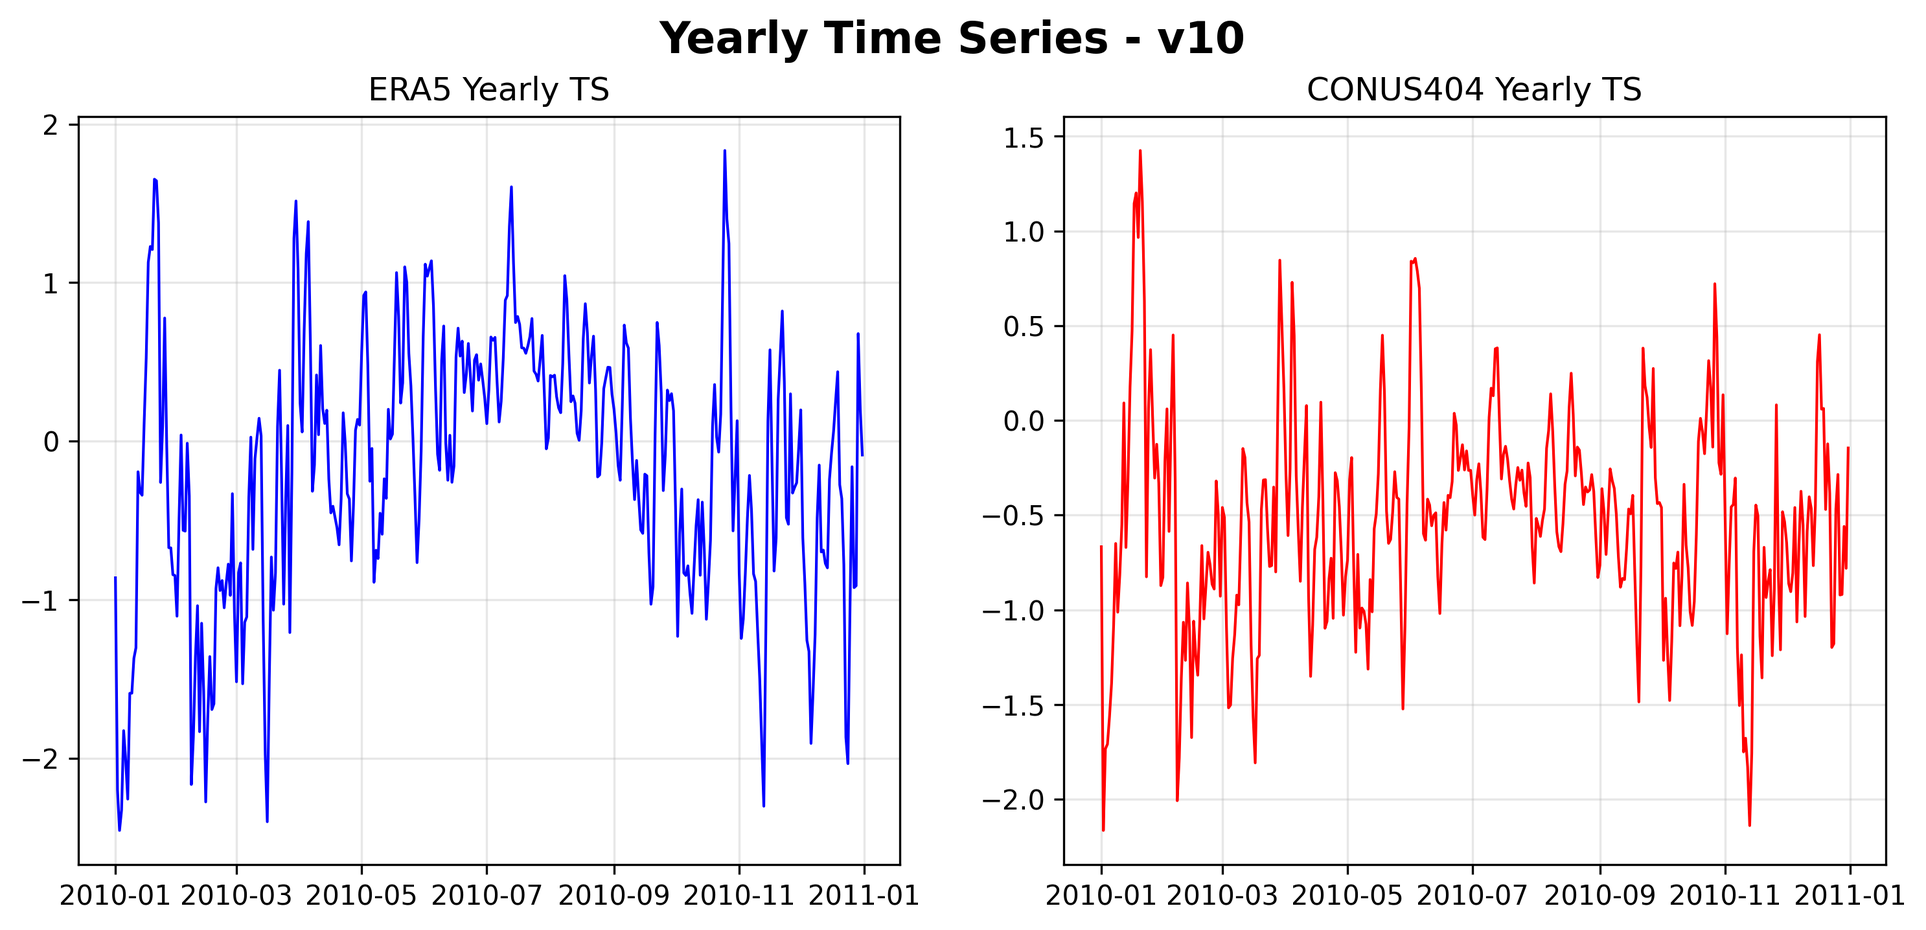
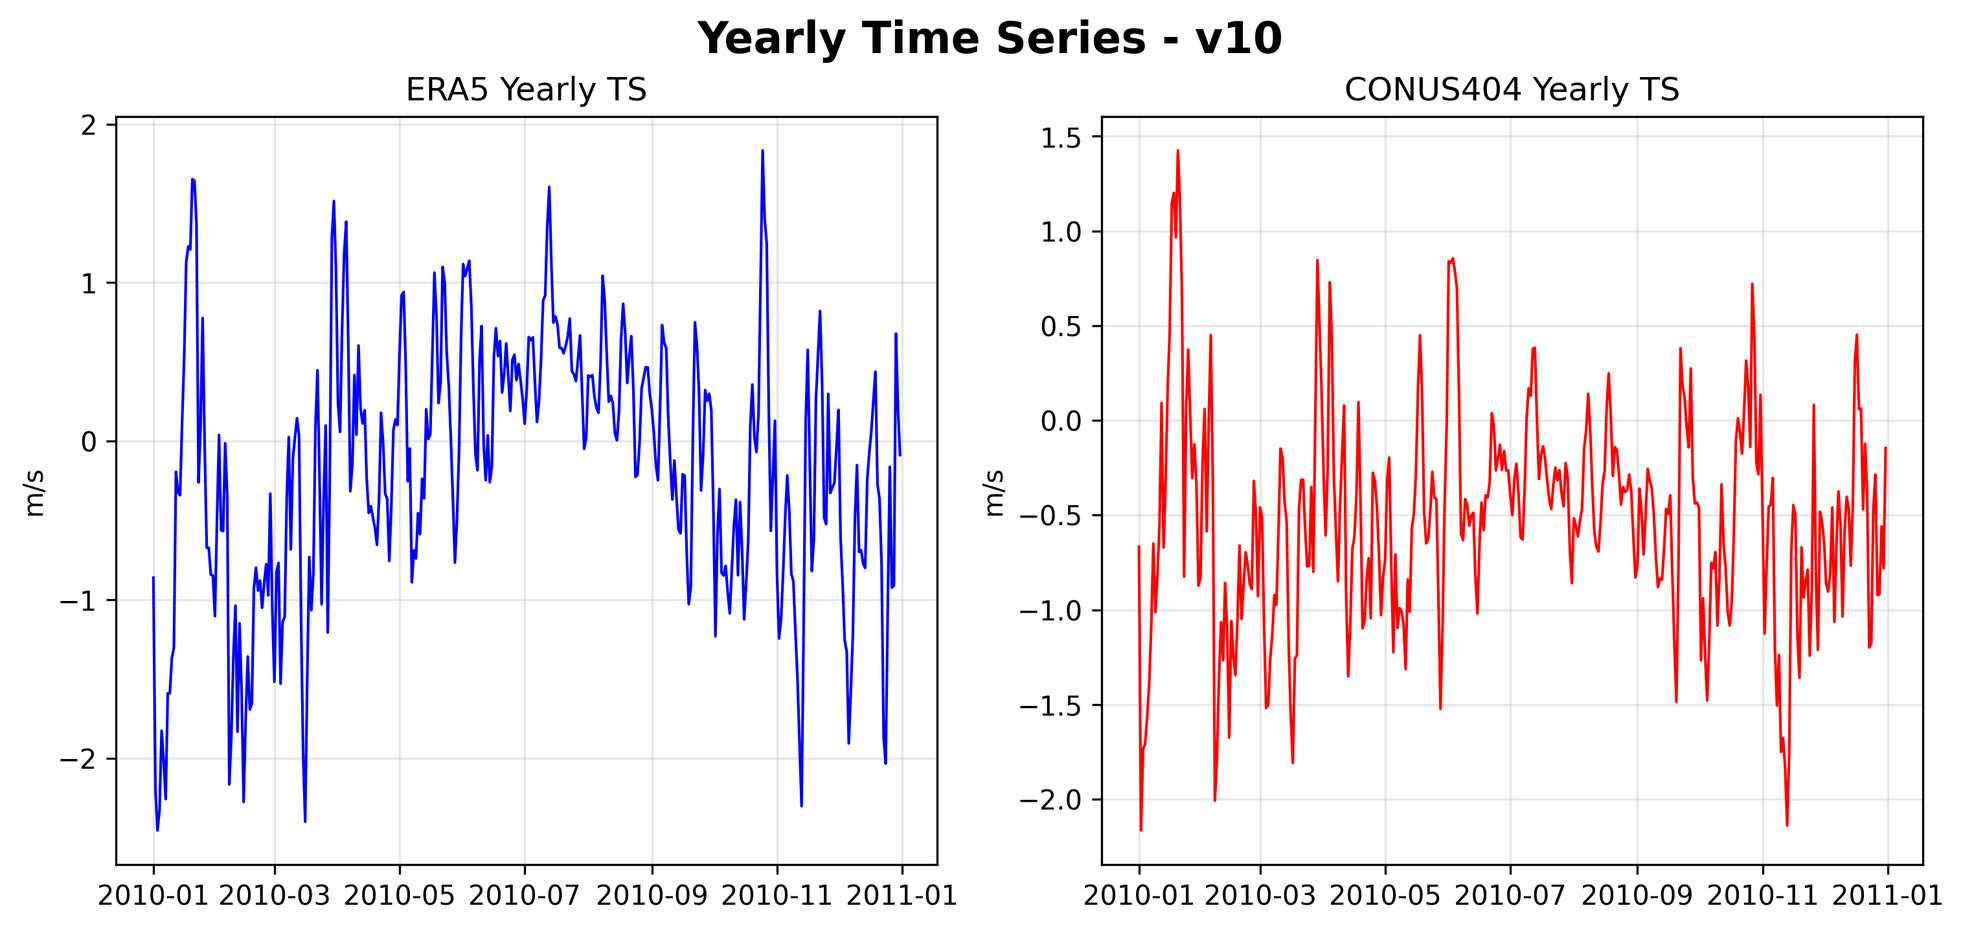
pics

diff --git a/analysis_script.py b/analysis_script.py
@@ -31,14 +31,26 @@ VARIABLE_PAIRS = {
     'v10': 'V10',         # 10m V-Wind Component
     'lai': 'LAI',         # Leaf Area Index
     'tp': 'ACRAINLSM',    # Total Precipitation
-    # 'z': 'Z',             # Geopotential / Geopotential Height (COMMENTED OUT)
+    # 'z': 'Z',             # Geopotential (Commented out)
+}
+
+# Units for labeling
+VARIABLE_UNITS = {
+    't2m': 'K',
+    'd2m': 'K',
+    'sp': 'Pa',
+    'u10': 'm/s',
+    'v10': 'm/s',
+    'lai': 'Index',
+    'tp': 'mm',
+    'z': 'm²/s²'
 }
 
 LAT_MIN, LAT_MAX = 24, 50
 LON_MIN, LON_MAX = -125, -66
 
 # Boolean switch (Controls Monthly Stats, Maps, and Time Series separation)
-SEPARATE_IMAGES = False 
+SEPARATE_IMAGES = True 
 
 def setup_directories(base_output_dir, var_name, separate_mode):
     """Creates directory structure for Monthly data."""
@@ -88,10 +100,7 @@ def get_clean_values(data):
     return vals[np.isfinite(vals)]
 
 def trim_to_us(data, lat_min, lat_max, lon_min, lon_max, lat_grid=None, lon_grid=None):
-    """
-    Trims dataset to US bounds.
-    """
-    # CONUS / Curvilinear Case
+    """Trims dataset to US bounds."""
     if lat_grid is not None and lon_grid is not None:
         mask = (
             (lat_grid >= lat_min) & (lat_grid <= lat_max) &
@@ -99,7 +108,6 @@ def trim_to_us(data, lat_min, lat_max, lon_min, lon_max, lat_grid=None, lon_grid
         )
         return data.where(mask, drop=False)
     
-    # ERA5 / Rectilinear Case
     if 'latitude' in data.dims and 'longitude' in data.dims:
         return data.sel(
             latitude=slice(lat_max, lat_min), 
@@ -129,10 +137,7 @@ def load_all_monthly_data(era_ds, conus_ds, era_var, conus_var):
     return era_monthly_data, conus_monthly_data
 
 def compute_global_limits(era_monthly_data, conus_monthly_data, era_var):
-    """
-    Computes global min/max. 
-    UPDATED: Checks if era_var is 'tp' to SUM instead of MEAN.
-    """
+    """Computes global min/max with unit conversion for TP."""
     all_era_vals = []
     all_conus_vals = []
     
@@ -142,9 +147,9 @@ def compute_global_limits(era_monthly_data, conus_monthly_data, era_var):
     for month in era_monthly_data.keys():
         era_dims = [d for d in era_monthly_data[month].dims if d in ['valid_time', 'time']]
         
-        # LOGIC CHANGE: Sum for precipitation (tp), Mean for others
         if era_var == 'tp':
-            era_agg = era_monthly_data[month].sum(dim=era_dims, skipna=True)
+            # Sum across time, then multiply by 1000 for Meters -> Millimeters
+            era_agg = era_monthly_data[month].sum(dim=era_dims, skipna=True) * 1000
             conus_agg = conus_monthly_data[month].sum(dim=conus_time_dim, skipna=True)
         else:
             era_agg = era_monthly_data[month].mean(dim=era_dims, skipna=True)
@@ -172,7 +177,6 @@ def plot_box(ax, era_vals, conus_vals, labels, global_min, global_max, title=Non
     bp['boxes'][0].set_facecolor('lightblue')
     bp['boxes'][1].set_facecolor('lightcoral')
     
-    # CHANGED: Median line color to dark red and thicker lines
     for median in bp['medians']:
         median.set_color('darkred')
         median.set_linewidth(2)
@@ -181,7 +185,6 @@ def plot_box(ax, era_vals, conus_vals, labels, global_min, global_max, title=Non
         ax.set_ylabel(ylabel, fontsize=10)
     
     if global_min is not None and global_max is not None:
-        # CHANGED: Added 5% padding to keep boxplots on page
         y_range = global_max - global_min
         pad = y_range * 0.05
         ax.set_ylim(global_min - pad, global_max + pad)
@@ -191,7 +194,7 @@ def plot_box(ax, era_vals, conus_vals, labels, global_min, global_max, title=Non
     if title:
         ax.set_title(title, fontsize=11, fontweight='bold', pad=8)
 
-def plot_ecdf(ax, era_vals, conus_vals, global_min, global_max, title=None):
+def plot_ecdf(ax, era_vals, conus_vals, global_min, global_max, title=None, unit_label=''):
     era_sorted = np.sort(era_vals)
     conus_sorted = np.sort(conus_vals)
     era_ecdf = np.arange(1, len(era_sorted)+1) / len(era_sorted)
@@ -203,12 +206,14 @@ def plot_ecdf(ax, era_vals, conus_vals, global_min, global_max, title=None):
     if global_min is not None and global_max is not None:
         ax.set_xlim(global_min, global_max)
     ax.grid(alpha=0.3)
+    ax.set_xlabel(f'Value ({unit_label})', fontsize=9)
+    ax.set_ylabel('Probability', fontsize=9)
     
     if title:
         ax.set_title(title, fontsize=11, fontweight='bold', pad=8)
         ax.legend(fontsize=8, loc='lower right')
 
-def plot_qq(ax, x, y, label_x, label_y, global_min, global_max, title=None):
+def plot_qq(ax, x, y, label_x, label_y, global_min, global_max, title=None, unit_label=''):
     n = min(len(x), len(y))
     quantiles = np.linspace(0, 1, n)
     x_q = np.quantile(x, quantiles)
@@ -216,14 +221,14 @@ def plot_qq(ax, x, y, label_x, label_y, global_min, global_max, title=None):
     
     ax.scatter(x_q, y_q, alpha=0.6, s=5, color='darkblue')
     
-    slope, intercept, r_value, _, _ = linregress(x_q, y_q)
-    fit_line = slope * x_q + intercept
-    ax.plot(x_q, fit_line, 'g-', alpha=0.7, linewidth=1.5,
-            label=f'R²={r_value**2:.2f}')
+    if len(x_q) > 1 and (x_q.std() > 0 or y_q.std() > 0):
+        slope, intercept, r_value, _, _ = linregress(x_q, y_q)
+        fit_line = slope * x_q + intercept
+        ax.plot(x_q, fit_line, 'g-', alpha=0.7, linewidth=1.5,
+                label=f'R²={r_value**2:.2f}')
     
-    ax.set_xlabel(f'{label_x}', fontsize=9)
-    if label_x != label_y:
-        ax.set_ylabel(f'{label_y}', fontsize=9)
+    ax.set_xlabel(f'{label_x} ({unit_label})', fontsize=9)
+    ax.set_ylabel(f'{label_y} ({unit_label})', fontsize=9)
         
     ax.legend(fontsize=8, loc='upper left')
     ax.grid(True, alpha=0.3)
@@ -251,12 +256,12 @@ def add_map_features(ax, lon_min, lon_max, lat_min, lat_max):
 # --- MONTHLY GENERATION FUNCTIONS ---
 
 def generate_monthly_temperature_maps(era_ds, conus_ds, dirs, separate_images):
-    """MOVED TO TOP - Generate temperature maps first"""
+    """Generate temperature maps."""
     print("Processing monthly temperature maps...")
     if 't2m' not in era_ds or 'T2' not in conus_ds: return
     time_dim, (lat_name, lon_name) = get_time_dimension(conus_ds), get_coordinate_names(conus_ds)
+    unit = VARIABLE_UNITS.get('t2m', 'K')
     
-    # Calculate GLOBAL limits first
     all_temps = []
     for month in range(1, 13):
         era_dims = [d for d in era_ds['t2m'].dims if d in ['valid_time', 'time']]
@@ -289,7 +294,7 @@ def generate_monthly_temperature_maps(era_ds, conus_ds, dirs, separate_images):
             ax2.set_title('CONUS404', fontsize=12)
             
             cbar = fig.colorbar(p2, cax=fig.add_subplot(gs[2]), extend='both')
-            cbar.set_label('Temperature (K)', fontsize=10)
+            cbar.set_label(f'Temperature ({unit})', fontsize=10)
             plt.suptitle(f'{month_name} Temperature Comparison', fontsize=16, fontweight='bold', y=0.95)
             plt.savefig(os.path.join(dirs['maps'], f'map_t2m_month{month_num:02d}.png'), dpi=300, bbox_inches='tight')
             plt.close()
@@ -318,7 +323,7 @@ def generate_monthly_temperature_maps(era_ds, conus_ds, dirs, separate_images):
             add_map_features(ax2, LON_MIN, LON_MAX, LAT_MIN, LAT_MAX)
             ax2.set_title(f'{month_name}\nCONUS404', fontsize=10)
             
-            fig.colorbar(p2, cax=fig.add_subplot(gs_sub[2]), extend='both').set_label('K', fontsize=9)
+            fig.colorbar(p2, cax=fig.add_subplot(gs_sub[2]), extend='both').set_label(f'K', fontsize=9)
         plt.suptitle('Monthly Temperature Comparison', fontsize=20, fontweight='bold', y=0.98)
         plt.subplots_adjust(left=0.02, right=0.98, top=0.92, bottom=0.02)
         plt.savefig(os.path.join(dirs['base'], 'map_t2m_all_months.png'), dpi=300, bbox_inches='tight')
@@ -334,9 +339,9 @@ def generate_monthly_statistics_plots(era_ds, conus_ds, era_var, conus_var,
         print(f"  Skipping {era_var}/{conus_var}: {e}")
         return
 
-    # UPDATED: Pass era_var to compute logic so it knows to SUM tp
     global_min, global_max = compute_global_limits(era_monthly_data, conus_monthly_data, era_var)
     time_dim = get_time_dimension(conus_ds)
+    unit = VARIABLE_UNITS.get(era_var, '')
     
     if separate_images:
         for month_idx in range(12):
@@ -345,9 +350,8 @@ def generate_monthly_statistics_plots(era_ds, conus_ds, era_var, conus_var,
             
             era_dims = [d for d in era_monthly_data[month_num].dims if d in ['valid_time', 'time']]
             
-            # CHANGED: TP logic - Sum instead of Mean
             if era_var == 'tp':
-                era_agg = era_monthly_data[month_num].sum(dim=era_dims, skipna=True)
+                era_agg = era_monthly_data[month_num].sum(dim=era_dims, skipna=True) * 1000
                 conus_agg = conus_monthly_data[month_num].sum(dim=time_dim, skipna=True)
             else:
                 era_agg = era_monthly_data[month_num].mean(dim=era_dims, skipna=True)
@@ -357,9 +361,9 @@ def generate_monthly_statistics_plots(era_ds, conus_ds, era_var, conus_var,
             conus_vals = get_clean_values(conus_agg)
             
             fig, axes = plt.subplots(1, 3, figsize=(16, 5))
-            plot_box(axes[0], era_vals, conus_vals, ['ERA', 'C404'], global_min, global_max, title='Box Plot', ylabel=f'{era_var}')
-            plot_ecdf(axes[1], era_vals, conus_vals, global_min, global_max, title='ECDF')
-            plot_qq(axes[2], era_vals, conus_vals, 'ERA', 'C404', global_min, global_max, title='Q-Q Plot')
+            plot_box(axes[0], era_vals, conus_vals, ['ERA', 'C404'], global_min, global_max, title='Box Plot', ylabel=f'{era_var} ({unit})')
+            plot_ecdf(axes[1], era_vals, conus_vals, global_min, global_max, title='ECDF', unit_label=unit)
+            plot_qq(axes[2], era_vals, conus_vals, 'ERA', 'C404', global_min, global_max, title='Q-Q Plot', unit_label=unit)
             plt.suptitle(f'{month_name} Statistics - {era_var}', fontsize=16, fontweight='bold', y=0.98)
             plt.tight_layout()
             output_file = os.path.join(dirs['stats'], f'stats_{era_var}_month{month_num:02d}.png')
@@ -374,9 +378,8 @@ def generate_monthly_statistics_plots(era_ds, conus_ds, era_var, conus_var,
             col_group = month_idx % 3
             era_dims = [d for d in era_monthly_data[month_num].dims if d in ['valid_time', 'time']]
             
-            # CHANGED: TP logic here too
             if era_var == 'tp':
-                era_agg = era_monthly_data[month_num].sum(dim=era_dims, skipna=True)
+                era_agg = era_monthly_data[month_num].sum(dim=era_dims, skipna=True) * 1000
                 conus_agg = conus_monthly_data[month_num].sum(dim=time_dim, skipna=True)
             else:
                 era_agg = era_monthly_data[month_num].mean(dim=era_dims, skipna=True)
@@ -385,9 +388,9 @@ def generate_monthly_statistics_plots(era_ds, conus_ds, era_var, conus_var,
             era_vals = get_clean_values(era_agg)
             conus_vals = get_clean_values(conus_agg)
 
-            plot_box(axes[row, col_group*3], era_vals, conus_vals, ['ERA', 'C404'], global_min, global_max, title=f'{month_name}\nBox Plot', ylabel=f'{era_var}')
-            plot_ecdf(axes[row, col_group*3+1], era_vals, conus_vals, global_min, global_max, title='ECDF')
-            plot_qq(axes[row, col_group*3+2], era_vals, conus_vals, 'ERA', 'C404', global_min, global_max, title='Q-Q Plot')
+            plot_box(axes[row, col_group*3], era_vals, conus_vals, ['ERA', 'C404'], global_min, global_max, title=f'{month_name}\nBox Plot', ylabel=f'{era_var} ({unit})')
+            plot_ecdf(axes[row, col_group*3+1], era_vals, conus_vals, global_min, global_max, title='ECDF', unit_label=unit)
+            plot_qq(axes[row, col_group*3+2], era_vals, conus_vals, 'ERA', 'C404', global_min, global_max, title='Q-Q Plot', unit_label=unit)
         plt.suptitle(f'{era_var} Monthly Statistics', fontsize=20, fontweight='bold', y=0.98)
         plt.subplots_adjust(wspace=0.4, hspace=0.5, left=0.05, right=0.95, top=0.92, bottom=0.05)
         output_file = os.path.join(dirs['base'], f'stats_{era_var}_all_months.png')
@@ -397,6 +400,7 @@ def generate_monthly_statistics_plots(era_ds, conus_ds, era_var, conus_var,
 def generate_monthly_timeseries(era_ds, conus_ds, era_var, conus_var, dirs, separate_images):
     print(f"Processing monthly time series: {era_var} vs {conus_var}...")
     time_dim = get_time_dimension(conus_ds)
+    unit = VARIABLE_UNITS.get(era_var, '')
     try: era_year = pd.to_datetime(era_ds.valid_time.values[0]).year
     except: era_year = "Unknown Year"
 
@@ -410,13 +414,23 @@ def generate_monthly_timeseries(era_ds, conus_ds, era_var, conus_var, dirs, sepa
                 fig, axes = plt.subplots(1, 2, figsize=(12, 5))
                 era_times = pd.to_datetime(era_month.valid_time.values)
                 reduce_dims = [d for d in era_month.dims if d != 'valid_time']
-                axes[0].plot(era_times, era_month.mean(dim=reduce_dims, skipna=True), 'b-', linewidth=1.5)
-                axes[0].set_title('ERA5', fontsize=12); axes[0].grid(alpha=0.3); axes[0].xaxis.set_major_formatter(mdates.DateFormatter('%m-%d'))
+                
+                # UNIT CONVERSION FOR TIMESERIES
+                era_ts_data = era_month.mean(dim=reduce_dims, skipna=True)
+                if era_var == 'tp':
+                    era_ts_data = era_ts_data * 1000
+                
+                axes[0].plot(era_times, era_ts_data, 'b-', linewidth=1.5)
+                axes[0].set_title('ERA5', fontsize=12); axes[0].grid(alpha=0.3)
+                axes[0].xaxis.set_major_formatter(mdates.DateFormatter('%m-%d'))
+                axes[0].set_ylabel(f'{era_var} ({unit})')
                 
                 conus_times = pd.to_datetime(conus_month[time_dim].values)
                 spatial_dims = [d for d in conus_month.dims if d != time_dim]
                 axes[1].plot(conus_times, conus_month.mean(dim=spatial_dims, skipna=True), 'r-', linewidth=1.5)
-                axes[1].set_title('CONUS', fontsize=12); axes[1].grid(alpha=0.3); axes[1].xaxis.set_major_formatter(mdates.DateFormatter('%m-%d'))
+                axes[1].set_title('CONUS', fontsize=12); axes[1].grid(alpha=0.3)
+                axes[1].xaxis.set_major_formatter(mdates.DateFormatter('%m-%d'))
+                axes[1].set_ylabel(f'{era_var} ({unit})')
                 
                 plt.suptitle(f'{calendar.month_name[month_num]} Time Series - {era_var}', fontsize=16, fontweight='bold', y=0.98)
                 plt.savefig(os.path.join(dirs['timeseries'], f'timeseries_{era_var}_month{month_num:02d}.png'), dpi=300, bbox_inches='tight')
@@ -432,9 +446,15 @@ def generate_monthly_timeseries(era_ds, conus_ds, era_var, conus_var, dirs, sepa
                 conus_month = conus_ds[conus_var].sel({time_dim: conus_ds[time_dim].dt.month == month_num})
                 
                 era_times = pd.to_datetime(era_month.valid_time.values)
-                axes[row, col_group*2].plot(era_times, era_month.mean(dim=[d for d in era_month.dims if d != 'valid_time'], skipna=True), 'b-')
+                
+                # UNIT CONVERSION FOR TIMESERIES (COMPACT)
+                era_ts_data = era_month.mean(dim=[d for d in era_month.dims if d != 'valid_time'], skipna=True)
+                if era_var == 'tp': era_ts_data = era_ts_data * 1000
+
+                axes[row, col_group*2].plot(era_times, era_ts_data, 'b-')
                 axes[row, col_group*2].set_title(f'{calendar.month_name[month_num]}\nERA5', fontsize=10); axes[row, col_group*2].grid(alpha=0.3)
                 axes[row, col_group*2].xaxis.set_major_formatter(mdates.DateFormatter('%m-%d'))
+                axes[row, col_group*2].set_ylabel(f'{unit}')
                 
                 conus_times = pd.to_datetime(conus_month[time_dim].values)
                 axes[row, col_group*2+1].plot(conus_times, conus_month.mean(dim=[d for d in conus_month.dims if d != time_dim], skipna=True), 'r-')
@@ -457,13 +477,13 @@ def generate_yearly_single_variable(era_ds, conus_ds, era_var, conus_var, yearly
 
     time_dim = get_time_dimension(conus_ds)
     lat_name, lon_name = get_coordinate_names(conus_ds)
+    unit = VARIABLE_UNITS.get(era_var, '')
     
     # Prepare Yearly Aggregates
     era_dims = [d for d in era_ds[era_var].dims if d in ['valid_time', 'time']]
     
-    # CHANGED: Logic for TP (Sum) vs others (Mean)
     if era_var == 'tp':
-        era_yearly_agg = era_ds[era_var].sum(dim=era_dims, skipna=True)
+        era_yearly_agg = era_ds[era_var].sum(dim=era_dims, skipna=True) * 1000
         conus_yearly_agg = conus_ds[conus_var].sum(dim=time_dim, skipna=True)
     else:
         era_yearly_agg = era_ds[era_var].mean(dim=era_dims, skipna=True)
@@ -484,9 +504,9 @@ def generate_yearly_single_variable(era_ds, conus_ds, era_var, conus_var, yearly
     
     # Stats Plot
     fig, axes = plt.subplots(1, 3, figsize=(16, 5))
-    plot_box(axes[0], era_vals, conus_vals, ['ERA', 'C404'], gmin, gmax, title='Yearly Box Plot', ylabel=era_var)
-    plot_ecdf(axes[1], era_vals, conus_vals, gmin, gmax, title='Yearly ECDF')
-    plot_qq(axes[2], era_vals, conus_vals, 'ERA', 'C404', gmin, gmax, title='Yearly Q-Q Plot')
+    plot_box(axes[0], era_vals, conus_vals, ['ERA', 'C404'], gmin, gmax, title='Yearly Box Plot', ylabel=f'{era_var} ({unit})')
+    plot_ecdf(axes[1], era_vals, conus_vals, gmin, gmax, title='Yearly ECDF', unit_label=unit)
+    plot_qq(axes[2], era_vals, conus_vals, 'ERA', 'C404', gmin, gmax, title='Yearly Q-Q Plot', unit_label=unit)
     plt.suptitle(f'Yearly Statistics - {era_var}', fontsize=16, fontweight='bold')
     plt.savefig(os.path.join(var_dir, f'stats_{era_var}_yearly.png'), dpi=300, bbox_inches='tight')
     plt.close()
@@ -506,7 +526,7 @@ def generate_yearly_single_variable(era_ds, conus_ds, era_var, conus_var, yearly
     ax2.set_title('CONUS404 Yearly Agg', fontsize=12)
     
     cbar = fig.colorbar(p2, cax=fig.add_subplot(gs[2]), extend='both')
-    cbar.set_label(era_var, fontsize=10)
+    cbar.set_label(f'{era_var} ({unit})', fontsize=10)
     plt.suptitle(f'Yearly Agg Map - {era_var}', fontsize=16, fontweight='bold')
     plt.savefig(os.path.join(var_dir, f'map_{era_var}_yearly.png'), dpi=300, bbox_inches='tight')
     plt.close()
@@ -516,13 +536,17 @@ def generate_yearly_single_variable(era_ds, conus_ds, era_var, conus_var, yearly
     
     era_times = pd.to_datetime(era_ds.valid_time.values)
     era_ts = era_ds[era_var].mean(dim=[d for d in era_ds[era_var].dims if d != 'valid_time'], skipna=True)
+    if era_var == 'tp': era_ts = era_ts * 1000 # Convert for TS
+    
     axes[0].plot(era_times, era_ts, 'b-', linewidth=1)
     axes[0].set_title('ERA5 Yearly TS'); axes[0].grid(alpha=0.3)
+    axes[0].set_ylabel(f'{unit}')
     
     conus_times = pd.to_datetime(conus_ds[get_time_dimension(conus_ds)].values)
     conus_ts = conus_ds[conus_var].mean(dim=[d for d in conus_ds[conus_var].dims if d != get_time_dimension(conus_ds)], skipna=True)
     axes[1].plot(conus_times, conus_ts, 'r-', linewidth=1)
     axes[1].set_title('CONUS404 Yearly TS'); axes[1].grid(alpha=0.3)
+    axes[1].set_ylabel(f'{unit}')
     
     plt.suptitle(f'Yearly Time Series - {era_var}', fontsize=16, fontweight='bold')
     plt.savefig(os.path.join(var_dir, f'timeseries_{era_var}_yearly.png'), dpi=300, bbox_inches='tight')
@@ -547,10 +571,11 @@ def generate_yearly_combined_summary(era_ds, conus_ds, variable_pairs, yearly_ba
 
     for i, (era_var, conus_var) in enumerate(variable_pairs.items()):
         era_dims = [d for d in era_ds[era_var].dims if d in ['valid_time', 'time']]
+        unit = VARIABLE_UNITS.get(era_var, '')
         
-        # CHANGED: Sum if tp, Mean otherwise
+        # CHECK: Sum & Convert for TP
         if era_var == 'tp':
-            era_mean = trim_to_us(era_ds[era_var].sum(dim=era_dims, skipna=True), LAT_MIN, LAT_MAX, LON_MIN, LON_MAX)
+            era_mean = trim_to_us(era_ds[era_var].sum(dim=era_dims, skipna=True) * 1000, LAT_MIN, LAT_MAX, LON_MIN, LON_MAX)
             conus_mean = conus_ds[conus_var].sum(dim=time_dim, skipna=True)
         else:
             era_mean = trim_to_us(era_ds[era_var].mean(dim=era_dims, skipna=True), LAT_MIN, LAT_MAX, LON_MIN, LON_MAX)
@@ -562,9 +587,9 @@ def generate_yearly_combined_summary(era_ds, conus_ds, variable_pairs, yearly_ba
         e_vals, c_vals = get_clean_values(era_mean), get_clean_values(conus_mean)
         gmin, gmax = min(e_vals.min(), c_vals.min()), max(e_vals.max(), c_vals.max())
         
-        plot_box(axes_stats[i, 0], e_vals, c_vals, ['ERA', 'C404'], gmin, gmax, title=f'{era_var} Box', ylabel=era_var)
-        plot_ecdf(axes_stats[i, 1], e_vals, c_vals, gmin, gmax, title=f'{era_var} ECDF')
-        plot_qq(axes_stats[i, 2], e_vals, c_vals, 'ERA', 'C404', gmin, gmax, title=f'{era_var} QQ')
+        plot_box(axes_stats[i, 0], e_vals, c_vals, ['ERA', 'C404'], gmin, gmax, title=f'{era_var} Box', ylabel=f'{era_var} ({unit})')
+        plot_ecdf(axes_stats[i, 1], e_vals, c_vals, gmin, gmax, title=f'{era_var} ECDF', unit_label=unit)
+        plot_qq(axes_stats[i, 2], e_vals, c_vals, 'ERA', 'C404', gmin, gmax, title=f'{era_var} QQ', unit_label=unit)
         
         ax_m1 = fig_maps.add_subplot(gs_maps[i, 0], projection=create_map_axis())
         ax_m1.pcolormesh(era_mean['longitude'], era_mean['latitude'], era_mean, transform=ccrs.PlateCarree(), cmap='RdYlBu_r', vmin=gmin, vmax=gmax, shading='auto')
@@ -574,13 +599,16 @@ def generate_yearly_combined_summary(era_ds, conus_ds, variable_pairs, yearly_ba
         p2 = ax_m2.pcolormesh(conus_mean[lon_name], conus_mean[lat_name], conus_mean, transform=ccrs.PlateCarree(), cmap='RdYlBu_r', vmin=gmin, vmax=gmax, shading='auto')
         add_map_features(ax_m2, LON_MIN, LON_MAX, LAT_MIN, LAT_MAX); ax_m2.set_title(f'CONUS {conus_var}')
         
-        fig_maps.colorbar(p2, cax=fig_maps.add_subplot(gs_maps[i, 2]), extend='both').set_label(era_var)
+        fig_maps.colorbar(p2, cax=fig_maps.add_subplot(gs_maps[i, 2]), extend='both').set_label(f'{era_var} ({unit})')
         
         era_ts = era_ds[era_var].mean(dim=[d for d in era_ds[era_var].dims if d != 'valid_time'], skipna=True)
         conus_ts = conus_ds[conus_var].mean(dim=[d for d in conus_ds[conus_var].dims if d != time_dim], skipna=True)
-        
+        if era_var == 'tp': era_ts = era_ts * 1000
+
         axes_ts[i, 0].plot(pd.to_datetime(era_ds.valid_time.values), era_ts, 'b-'); axes_ts[i, 0].set_title(f'ERA5 {era_var} TS')
+        axes_ts[i, 0].set_ylabel(f'{unit}')
         axes_ts[i, 1].plot(pd.to_datetime(conus_ds[time_dim].values), conus_ts, 'r-'); axes_ts[i, 1].set_title(f'CONUS {conus_var} TS')
+        axes_ts[i, 1].set_ylabel(f'{unit}')
 
     fig_stats.suptitle('Yearly Stats Summary (All Vars)', fontweight='bold'); fig_stats.savefig(os.path.join(yearly_base_dir, 'summary_stats_yearly.png'), dpi=300, bbox_inches='tight'); plt.close(fig_stats)
     fig_maps.suptitle('Yearly Maps Summary (All Vars)', fontweight='bold'); fig_maps.savefig(os.path.join(yearly_base_dir, 'summary_maps_yearly.png'), dpi=300, bbox_inches='tight'); plt.close(fig_maps)
